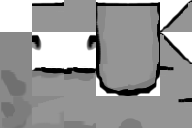
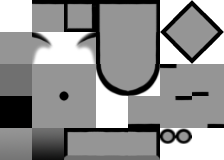
Changed the default tileset and moved some credits to the README

diff --git a/js/states/play.js b/js/states/play.js
@@ -18,7 +18,7 @@ game.PlayState = me.ScreenObject.extend({
 	onResetEvent : function() {
 
 		// Load the first level
-		me.levelDirector.loadLevel("area01");
+		me.levelDirector.loadLevel("area00");
 
 		// Reset the score
 		game.data.score = 0;

diff --git a/README.md b/README.md
@@ -81,6 +81,9 @@ Acknowledgments:
   [A Step-by-step Game Creation Tutorial][tut], the best introduction to HTML5
   game development ever.
 * This project started with the [MelonJS boilerplate][boilerplate].
+* Some of the graphics (tileset and font) were based on
+  [GFXLib FuZED][fuzed], a package of assets for 2D platformers.
+  Thanks a lot, [Marc Russell][marc]!
 
 ## License
 
@@ -96,4 +99,6 @@ cannot do with the code.
 [bdnachi]: http://bdnachi.deviantart.com/
 [tut]: http://melonjs.github.io/tutorial/
 [boilerplate]: https://github.com/melonjs/boilerplate
+[fuzed]: http://opengameart.org/content/gfxlib-fuzed
+[marc]: http://spicypixel.net/
 
